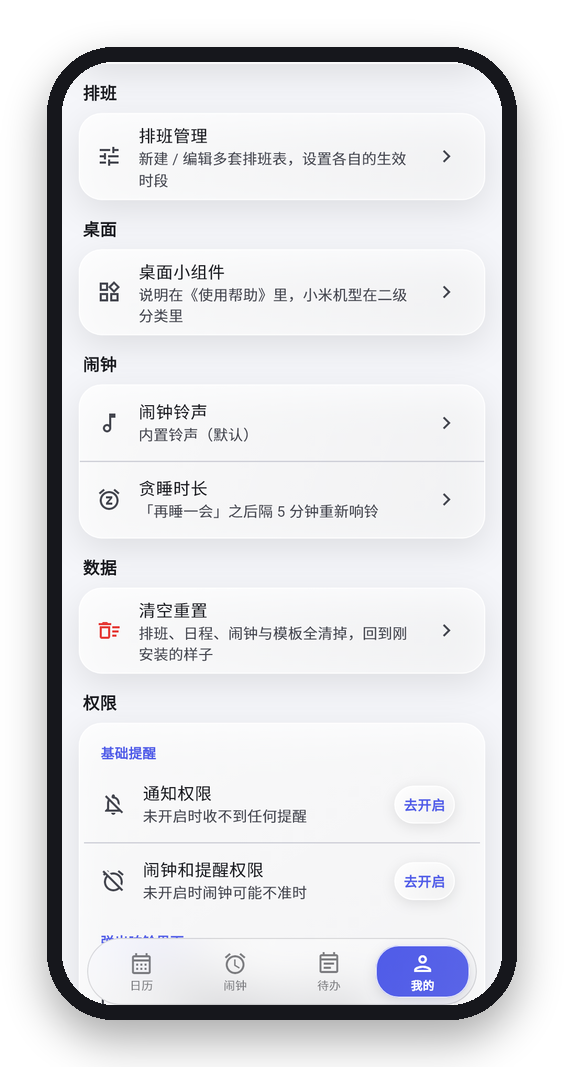
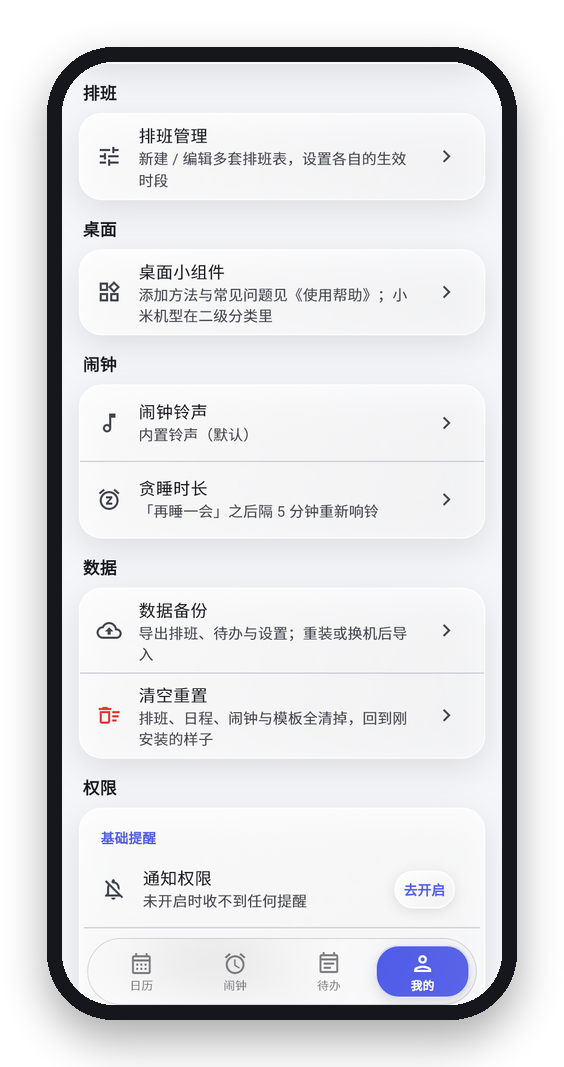
chore(release): 准备 v0.14.0 正式版（归纳更新日志 + 门面文案 + 配图）
- 版本 0.13.27+214 → 0.14.0+215（pubspec 与 app_info 双写）
- App 内更新日志 prepend v0.14.0 归纳版（9 条，守住折叠首屏的字形量），滚掉 0.13.18
- README / PRODUCT_SPEC / site / 帮助页对齐现状：schema 18、日志整页与诊断包、三星与一加 OPPO 权限入口、换手机可备份（旧说法已过时）、新增「导出出勤表」
- 酷安稿升 v0.14.0（新增统计 / 备份两节），新增 v0.14.0 更新短文
- promo 屏单新增「统计」，重出 hero 与 shot-*
- 单测 1429 全绿、analyze 0 issue、视觉工装 1623 条全绿

diff --git a/app/lib/features/profile/app_dialogs.dart b/app/lib/features/profile/app_dialogs.dart
@@ -49,6 +49,17 @@ void showAppInfoDialog(
 }
 
 const String _changelogZh =
+'v0.14.0\n'
+    '· 统计页（新）：月 / 年两种视图，实际在岗、正常工时、上班 / 休息天数、请假、加班、夜班、最长连班 / 连休都算好了；环形图、出勤构成条、月度工时柱；点年月标题直接跳\n'
+    '· 请假与加班：日历上任意一天记时长、类型（也能自己起名）和备注；整天请假会自动压掉那天的班次闹钟。出勤表可以导出 CSV，拿去算工资或交班\n'
+    '· 数据备份：「我的 → 数据备份」导出 .dshbackup（排班 + 待办 + 模板 + 闹钟 + 设置 + 自己的铃声），换机或重装后导入即恢复\n'
+    '· 闹钟这一轮的重点是「不丢」：重排改成先排后清，不再有几秒钟一条闹钟都没有；每 6 小时巡检一次，被系统清掉的自动补回；闹钟页顶部多一行「下一次响铃」\n'
+    '· 「查看日志」从弹窗改成整页：按天翻（保留 7 天）、能搜索、能一键导出诊断包\n'
+    '· 权限页按品牌给入口：三星「休眠应用」、一加 / OPPO「自启动」，直接跳到系统的设置页\n'
+    '· 顺带的一批：法定节假日自动更新；触觉走设备自己的预定义效果；选择器顶上都补了下拉短横，日期弹层点年月标题直接跳月，深色下箭头看得见了；深色下不再有黑压压的图标；底栏滑块跟手；「版本更新」先给最近三版\n'
+    '· 「我的」新增「关于」整页（版本 / 开源地址 / 隐私说明）与打赏入口，打赏后可解锁「支持者专属」里的一封信\n'
+    '· 修：HarmonyOS 3.0（荣耀 10、畅享 20 Pro 一类）一开就闪退；用系统文件管理器选铃声返回后没反应；重复待办改「从这天起」不生效；导入备份后点重启拉不起来\n'
+    '\n'
 'v0.13.27\n'
     '· 「版本更新」这个弹窗现在先给最近三版，更早的点下面的「展开更早的」再看 —— 十条长文一次画出来，对老机型是实打实的压力：有用户反复开关三四次之后，弹窗里的字碎成一片、接着整页上下翻转（重启就恢复）。收起来之后，这一屏也读得清爽些\n'
     '\n'
@@ -97,15 +108,19 @@ const String _changelogZh =
     '· 图表精修：环图加了底轨、圆头分段与真实缝隙（只有一天的小段也不会消失）；出勤构成条分段留缝；月度工时柱改成底轨 + 顶圆角渐变柱 + 均值虚线（只统计有工时的月份）+ 当月高亮，切年时从基线长出来\n'
     '· 请假构成每个类型多了一条占比细条；统计口径补了一条「月度均值线只统计工时 > 0 的月份」\n'
     '\n'
-'v0.13.18\n'
-    '· 修：个别机型（三星这类）偶尔有某一条班次闹钟不响。根因是重排闹钟时先清空系统里已排的那一批、再一条条排回来，中间有几秒一条闹钟都没有；而每次闹钟响都会拉起 App 重排一轮，这时 App 若被划掉或被系统清理，就停在「撤完了、还没排上」\n'
-    '· 现在顺序反过来了：先把新的一批排上、再撤多余的。重排过程中系统里始终有一批闹钟（升级后的首次清扫是唯一的一次例外）\n'
-    '· 新增闹钟巡检：每 6 小时照排班把系统里缺的补回来。厂商把 App 的闹钟整条取消时（三星「休眠应用」就是这样），靠它补回，不必等下次打开 App\n'
-    '· 日志现在能一眼定位：进程启动只写一次设备与权限，之后每条都短；每条「收到闹钟」后面跟一行「下一跳是几月几日几点、哪个 id」——报障时把日志复制过来，就能分清是系统没递过来、还是 App 根本没排它。铃声那一行也不再打出让人误解的「file://」\n'
-    '· 重排本身也快了：一次只走一次原生调用、只落一次盘（原来是每条闹钟各来一次），冷启动不再卡\n'
-    '\n'
     ;
 const String _changelogEn =
+'v0.14.0\n'
+    '· Statistics (new): monthly and yearly views for hours on duty, normal hours, work / rest days, leave, overtime, night shifts and the longest work / rest streak, with a donut, an attendance bar and monthly hour columns; tap the year-month title to jump\n'
+    '· Leave and overtime: record hours, a type (you can name your own) and a note on any calendar day; a full-day leave also cancels that day shift alarm. The attendance table exports to CSV for payroll or handover\n'
+    '· Backup: My > Backup exports a .dshbackup file (schedules + todos + templates + alarms + settings + your own ringtones); import it after a reinstall or on a new phone and everything is back\n'
+    '· Alarms this round are about not losing one: re-planning schedules the new batch before cancelling the old, a check-up every 6 hours restores whatever the system dropped, and the alarm page gains a next-alarm line\n'
+    '· View log is now a full page: per-day logs (7 days kept), search, and a one-tap diagnostics bundle\n'
+    '· Permissions gains brand entries: Samsung Sleeping apps, OnePlus / OPPO Auto-launch, each opening the right system screen\n'
+    '· Along the way: public holidays update themselves; haptics use the built-in predefined effects; every sheet has the drag handle, date sheets jump to a month from their title and their arrows are visible in dark mode; no more black icons in dark mode; the sliders track your finger; the update log opens with the latest three versions\n'
+    '· My gains a full About page (version / source / privacy) and a tip entry; tipping unlocks a letter under Supporter\n'
+    '· Fix: instant crash on HarmonyOS 3.0 (Honor 10, Enjoy 20 Pro and the like); picking a ringtone with the system file manager did nothing on return; changing a recurring to-do starting day had no effect; tapping restart after a backup import brought nothing back\n'
+    '\n'
 'v0.13.27\n'
     '· The update log now opens with the latest three versions; tap "Show earlier versions" underneath for the rest. Drawing ten long entries at once is real pressure on older phones - one user saw the text break into fragments and then the whole page flip, three or four opens in a row (a restart clears it). It also reads more clearly this way\n'
     '\n'
@@ -153,13 +168,6 @@ const String _changelogEn =
     '· Statistics now leads with icons: the month / year segment, the four metric tiles, every card header and the four highlight rows all carry a semantic-coloured icon\n'
     '· Charts refined: the donut gains a track, round segment caps and real gaps (a one-day segment no longer vanishes); the composition bar has gaps between segments; monthly hours become track + rounded gradient bars + a dashed average line (months with hours only) + current-month highlight, growing from the baseline when the year changes\n'
     '· Leave by type gains a share bar per row; "How it is calculated" explains that the monthly average line only counts months with hours > 0\n'
-    '\n'
-'v0.13.18\n'
-    '· Fix: on some devices (Samsung among them) an occasional shift alarm did not ring. Alarms were re-planned by clearing everything already scheduled and then adding them back one by one, leaving a few seconds with no alarm at all; and every alarm that rings brings the app up for a full re-plan, so if the app is swiped away or cleaned up meanwhile it stays at "cleared, not yet re-added"\n'
-    '· The order is reversed: the new batch is scheduled first, then the leftovers are cancelled. A full set of alarms stays scheduled throughout a re-plan (the one-time sweep after upgrading is the only exception)\n'
-    '· New alarm check-up every 6 hours re-adds whatever the system dropped. When an OEM cancels an app\'s alarms outright (Samsung\'s sleeping apps do), this brings them back without waiting for the next app launch\n'
-    '· The log now pinpoints the problem at a glance: device and permissions are written once per process and later lines are short; every "alarm received" line is followed by "next up: date, time, id" - paste the log and it is clear whether the system never delivered it or the app never scheduled it. The ringtone line no longer prints a misleading "file://"\n'
-    '· Re-planning is faster too: one native call and one disk write per batch instead of one per alarm, so cold starts no longer stall\n'
     '\n'
     ;
 String get appChangelog => L10n.isEn ? _changelogEn : _changelogZh;

diff --git a/site/index.html b/site/index.html
@@ -95,6 +95,29 @@
     </figure>
   </section>
 
+  <!-- ============ 统计 ============ -->
+  <section class="chapter chapter-quiet" id="stats">
+    <div class="split split-reverse">
+      <div class="split-copy reveal">
+        <p class="chapter-kicker">统计</p>
+        <h2 class="chapter-title">这个月，<br>到底上了多少小时。</h2>
+        <p class="chapter-lede">
+          月 / 年两种视图：实际在岗、正常工时、上班与休息天数、请假、加班、夜班、最长连班连休都算好了。请假和加班就在日历上记，整天请假会自动压掉那天的班次闹钟。
+        </p>
+        <p class="callout">
+          出勤表能导成 <strong>CSV</strong>，Excel 直接打开 —— 拿去算工资或交班。
+        </p>
+      </div>
+
+      <div class="split-media split-media-single reveal">
+        <figure>
+          <img src="./assets/shot-stats.png" alt="统计界面" width="564" height="1172" loading="lazy" decoding="async">
+          <figcaption>环形图、出勤构成条、月度工时柱，都是自己画的。</figcaption>
+        </figure>
+      </div>
+    </div>
+  </section>
+
   <!-- ============ 闹钟 ============ -->
   <section class="chapter" id="alarm">
     <div class="split">
@@ -174,6 +197,10 @@
 
     <ol class="log">
       <li class="reveal">
+        <h3>v0.14.0 <em>正式版</em></h3>
+        <p>这一版把 v0.13 的二十七个测试版收口。新东西三样：<b>统计页</b>（月 / 年两种视图，实际在岗、正常工时、上班休息天数、请假、加班、夜班、最长连班连休，配环形图、出勤构成条和月度工时柱，还能把出勤表导出成 CSV）；<b>请假与加班</b>（日历上任意一天记时长、类型和备注，整天请假会自动压掉那天的班次闹钟）；<b>数据备份</b>（导出成一个 .dshbackup，换机或重装后导入恢复）。闹钟这一轮的重点是「不丢」：重排改成先排后清、每 6 小时巡检兜底、闹钟页顶上一行「下一次响铃」、日志改成整页并能一键导诊断包；权限页按品牌给入口（三星「休眠应用」、一加 / OPPO「自启动」）。另外：法定节假日改为自动更新、触觉改走设备自己的预定义效果、选择器统一加了下拉短横、深色下不再有黑压黑的图标、底栏滑块跟手了。修掉的硬伤包括 HarmonyOS 3.0 一开就闪退、系统文件管理器选铃声返回无效、重复待办改起点不生效。</p>
+      </li>
+      <li class="reveal">
         <h3>v0.13.27 <em>测试版</em></h3>
         <p>「版本更新」这个弹窗现在先给最近三版，更早的点下面那颗「展开更早的」胶囊再看。十条长文一次画出来，对老机型是实打实的压力 —— 有用户反复开关三四次之后，弹窗里的字碎成一片、接着整页还上下翻转（重启就恢复）；收起来之后，这一屏也读得清爽些。</p>
       </li>
@@ -200,10 +227,6 @@
       <li class="reveal">
         <h3>v0.13.21 <em>测试版</em></h3>
         <p>修三处：「下一次响铃」在关掉某一天的闹钟后不跟着跳（它没看按天开关），现在关了哪条就跳到下一条；没有自定义闹钟时那一块终于真的贴到底部，不再和班次列表平分；编辑排班里的「夜班」开关下面加了一行说明 —— 它只算进统计页的「夜班天数」，不影响轮转和闹钟，跟「联动闹钟」也拉开了距离。</p>
-      </li>
-      <li class="reveal">
-        <h3>v0.13.20 <em>测试版</em></h3>
-        <p>闹钟页顶部多了一行「下一次响铃」：几月几日几点、哪条班次闹钟、还有几小时几分。没有自定义闹钟时那一块不再占半个屏幕，未来 30 天的班次闹钟拿回整块空间。「调整班次」现在能写备注 —— 跟同事换班、临时调休，写一句就记在日历上。「查看日志」从弹窗换成整页：日志按天归档保留 7 天、能搜索，还能一键导出诊断包（日志 + 设备权限 + 已排闹钟清单 + 未来 7 天计划），报「偶尔没响」时发这个包就能定位。</p>
       </li>
     </ol>
 

diff --git a/app/lib/features/profile/help_content.dart b/app/lib/features/profile/help_content.dart
@@ -135,6 +135,14 @@ const List<HelpFaqGroup> helpFaqGroups = [
               'Night shift is a marker on the shift rather than something guessed from its name. Open the schedule under Me → Schedule management and turn on the "Night shift" switch on that shift card; the statistics will follow.',
             ),
           ),
+          (
+            question: L10nText('想把出勤表拿去算工资',
+                'I want to take the attendance table to payroll'),
+            answer: L10nText(
+              '统计页右上角「导出」：选起止日期，勾上要的字段（日期、班次、工时、请假类型、请假时长、加班、备注等），生成一份 CSV，Excel 直接打开。跨午夜的班次会标「次日」。',
+              'Tap Export at the top right of Statistics: pick the date range, tick the columns you want (date, shift, hours, leave type, leave hours, overtime, note and more) and it writes a CSV that Excel opens directly. Shifts that cross midnight are marked "next day".',
+            ),
+          ),
         ],
       ),
       (
@@ -273,8 +281,8 @@ const List<HelpFaqGroup> helpFaqGroups = [
             question: L10nText('换了手机，怎么把排班搬过去',
                 'I got a new phone — how do I move my schedule over'),
             answer: L10nText(
-              '目前不支持。数据只存在这台手机上，没有云同步也没有导出，换手机要重新排一遍。',
-              'Not supported yet. Everything lives on this phone only — there is no cloud sync and no export — so a new phone means setting it up again.',
+              '「我的 → 数据备份 → 导出」，存成一个 .dshbackup 文件（可以放到网盘或电脑）。在新手机上装好 App，同一条路径选「导入」，选那个文件、确认覆盖，App 会自己重启一次，排班、待办、模板、闹钟、外观设置和你保存的铃声都回来了。',
+              'Open Me → Backup → Export and save the .dshbackup file somewhere (a cloud drive or your computer). Install the app on the new phone, pick Import on the same screen, choose that file and confirm; the app restarts itself and your schedules, todos, templates, alarms, appearance settings and saved ringtones are all back.',
             ),
           ),
         ],

diff --git a/app/test/changelog_dialog_test.dart b/app/test/changelog_dialog_test.dart
@@ -22,7 +22,7 @@ String _visibleLog(WidgetTester tester) {
   final parts = tester
       .widgetList<Text>(find.byType(Text))
       .map((t) => t.data ?? '')
-      .where((s) => s.contains('v0.13.'));
+      .where((s) => s.contains('v0.1'));
   return parts.join('\n');
 }
 
@@ -46,7 +46,7 @@ void main() {
   test('切分：条数等于窗口条数，首条是当前版本', () {
     final versions = splitChangelogVersions(appChangelog);
     expect(versions.length, 10, reason: '更新日志窗口固定十条，切分不能多也不能少');
-    expect(versions.first.startsWith('v0.13.27'), isTrue);
+    expect(versions.first.startsWith('v0.14.0'), isTrue);
     // 每一条都必须正好以一条版本头开头，且不含下一条的头。
     for (final block in versions) {
       expect(RegExp(r'^v\d+\.\d+\.\d+\n').hasMatch(block), isTrue,
@@ -62,10 +62,10 @@ void main() {
     await tester.pumpAndSettle();
 
     final collapsed = _visibleLog(tester);
+    expect(collapsed, contains('v0.14.0'));
     expect(collapsed, contains('v0.13.27'));
     expect(collapsed, contains('v0.13.26'));
-    expect(collapsed, contains('v0.13.25'));
-    expect(collapsed, isNot(contains('v0.13.24')),
+    expect(collapsed, isNot(contains('v0.13.25')),
         reason: '折叠态下第四版就不该画出来 —— 画了等于没折叠');
 
     final more = find.text('展开更早的 7 版');
@@ -77,7 +77,7 @@ void main() {
     await tester.pumpAndSettle();
 
     final expanded = _visibleLog(tester);
-    for (final v in ['v0.13.27', 'v0.13.20', 'v0.13.18']) {
+    for (final v in ['v0.14.0', 'v0.13.22', 'v0.13.19']) {
       expect(expanded, contains(v), reason: '展开后 $v 应当出现');
     }
     expect(find.text('收起'), findsOneWidget);

diff --git a/app/tool/promo/render_promo_test.dart b/app/tool/promo/render_promo_test.dart
@@ -23,6 +23,7 @@ import 'package:shiftassistantpro/features/alarm/alarm_ringing_screen.dart';
 import 'package:shiftassistantpro/features/calendar/schedule_editor_screen.dart';
 import 'package:shiftassistantpro/features/calendar/shift_template_picker_screen.dart';
 import 'package:shiftassistantpro/features/home/home_shell.dart';
+import 'package:shiftassistantpro/features/stats/stats_screen.dart';
 
 import '../visual/visual_harness.dart';
 
@@ -229,6 +230,16 @@ final List<_Shot> _shots = [
       await settleVisual(t);
       await _scrollDown(t, 640);
     },
+  ),
+  (
+    // v0.14.0 的门面：统计页。它是这轮最大的新功能，宣传图里不能没有。
+    // 画布比别的屏高一档（1000）：默认 900 会把环图下面的图例切掉半行。
+    slug: '11_stats',
+    title: '统计',
+    build: (db) async => const StatsScreen(),
+    brightness: Brightness.light,
+    size: const Size(420, 1000),
+    beforeCapture: null,
   ),
 ];
 

diff --git a/app/lib/core/app_info.dart b/app/lib/core/app_info.dart
@@ -7,4 +7,4 @@
 /// 错的，会给已经装上的版本再挂一个「下载」按钮。
 ///
 /// 现在由 `test/app_info_test.dart` 盯着两处一致，改漏了会直接把测试打红。
-const String appVersion = '0.13.27';
+const String appVersion = '0.14.0';

diff --git a/scripts/make_promo_images.py b/scripts/make_promo_images.py
@@ -33,6 +33,7 @@ SHOTS = [
     ('02_alarm', 'shot-alarm.png', '班次闹钟'),
     ('03_editor', 'shot-editor.png', '排班编辑器'),
     ('04_todos', 'shot-todos.png', '待办'),
+    ('11_stats', 'shot-stats.png', '统计'),
     ('06_templates', 'shot-templates.png', '倒班方式'),
     ('10_profile_permissions', 'shot-permissions.png', '权限自检'),
     ('05_ringing', 'shot-ringing.png', '响铃界面'),

diff --git a/scripts/build_site.py b/scripts/build_site.py
@@ -41,6 +41,7 @@ IMAGES = ROOT / "docs" / "images"
 PNGS = ["hero.png"]          # 只给 og:image，不渲染在页面上
 SHOTS = [                     # 首屏三台 + 各章各一张
     "shot-calendar.png",
+    "shot-stats.png",
     "shot-alarm.png",
     "shot-ringing.png",
     "shot-todos.png",

diff --git a/docs/changelog/version-history.md b/docs/changelog/version-history.md
@@ -43,4 +43,4 @@
 → 0.11.21(+168) 测试版（**实心主色面换成深一档的主色**。用户 2026-10-15 从三张对照图里挑了「实色压深一档 + 白字」：新增 `AppTokens.solidAccent()`（主色明度 × 0.62、色相不动），`accentGradient` 从「原主色 0.85 → 0.50 的半透明渐变」换成「深一档的 1.0 → 0.92」—— 主按钮 / 弹窗动作钮 / 导航选中 / 分段器滑块 / 待办悬浮按钮 / 开关 / 勾选块 / 胶囊入口 / 液态档玻璃滴一处收口。白字在原主色上 teal 2.63、orange 2.55、rose 4.09 全不到 AA，现在五种主色在两档底色、两端都 ≥ 5.0。**顺带量出并修掉一件更早的事：旧填充是半透明的，压在白卡上连 primary 的尽头都只有 2.1:1。** 护栏 `design_tokens_test.dart` 换成「白字在渐变两端 × 两档底色都过 AA + 色相不变、明度更小」，反向验证过。⚠ **这一版漏了两处、且护栏是假的绿** —— 见上面 0.11.22）
 → 0.12.9(+184) 测试版（**彩边与折射同时画 + 桌面小组件白块自愈 + 极端字号格高 + 待办铅笔去掉**。用户 2026-11-05 一次提了四条：v0.12.8 为了让只在 Impeller 上跑得动的折射看得见，把彩边做成了它的替身 —— 结果 Impeller 回落到 Skia 的机器上两样都没有，改成 `spectral: spectral` 恒开、两样同时画；MIUI13 / Android 12 用户报的「白卡 + 中间一个应用图标」只来自 `WidgetRenderer.kt:438-446` 的 `snap == null` / `todayIndex < 0`，病灶是「快照没推上去」整条静默（`buildWidgetSnapshot` 在 `try` 之外、`MainActivity.kt:652` 无条件 `success(true)`），修成 `push` → `Future<bool>` + 首发 2 次重试 + 原生 `commit()` 返回值 + 占位卡写「打开 App 同步排班」；Noto 行盒比等线高 2dp，网格可用高度 316→314、`maxScrollExtent` 量到 2.0，改成每行差额 ≤1dp 由格子吃掉（`_cellFitTolerance`）而不是放宽断言；待办行铅笔去掉。**同轮把测试字体钉进仓库** `app/test/fonts/`（Noto SC 子集 + Roboto + Material Icons，合计 4,675,376 B + OFL/Apache 全文）—— CI 首轮 `+1210 -8` 全是「量方块」，根因是 CJK 候选全是系统路径。单测 1217 → 1218 → **1220**。）
 → 0.12.10(+185) 测试版（**底栏边光重配亮度 + 滑块/药丸两端真圆**。用户 v0.12.9 真机反馈两条：深色档边光 202 → **122** 级、浅色档补一条 **85** 级暗线；满升程时两端曲率算错被拉成椭圆，改成真圆。开关高度按用户拍板**保持 42**（每侧越过 6dp，底栏 4dp —— 小控件要让提起读得出来），新护栏 `liquid_lift_clearance_test.dart` 钉「每侧至少越过 4dp」这条下限而不是恰好 4。顺带收掉 `alarm_screen_test.dart:178` 的午夜老炸弹（每天 23:55–23:59 约 0.35% 必红），并把发版脚本的签名校验升级成**默认拦**（新开关 `-SkipSignCheck`；摘要不一致不给口子；这一节搬出 `-SkipVerify` 的包裹，否则紧急补发时校验会静默消失）。单测 1235 → **1236**。）
-→ **0.13.0(+187) 正式稳定版**（归纳 0.12.1~0.13.0：小组件跟随系统深浅色 / 重复待办收口 / 排班编辑器箭头去掉；详见 `docs/changelog/v0.13.md`）→ 0.13.1(+188) 测试版（官网 + 国内下载镜像；检查更新先读官网清单）→ 0.13.2(+189) 测试版（关于页 / 打赏入口 / 文案审校）→ 0.13.3(+190) 测试版（打赏解锁「支持者专属」，自报式）→ 0.13.4(+191) 测试版（数据备份导出 / 导入，导入后重启）→ 0.13.5(+192) 测试版（「立即重启」真的重开；导入不弹版本更新）→ 0.13.6(+193) 测试版（文案校对：官网更新日志 / 帮助 / README / 规格）→ 0.13.7(+194) 测试版（触觉改走原生预定义效果，替掉 70ms TICK）→ 0.13.8(+195) 测试版（选择器滚轮换格震一记）→ 0.13.9(+196) 测试版（翻月 / 响铃 / 备份补触觉）→ 0.13.10(+197) 测试版（触觉三档能力阶梯 + 启动期能力自查）→ 0.13.11(+198) 测试版（修 HarmonyOS 3.0 / API 29 冷启动闪退：API 门槛按 api-versions.xml 逐条设，catch 改抓 Throwable）→ 0.13.12(+199) 测试版（法定节假日数据自动更新：`holidays.json` 双通道 + 本地缓存 + 整份校验，按年整年替换；「关于」页加手动刷新行；自定义闹钟行去掉编辑笔；修「从文件中选择铃声」在某些文件管理器下点了没反应：改 `ACTION_GET_CONTENT`、认 data/clipData/EXTRA_STREAM 三种回传、`PICK_NO_URI` 独立错误码 + 全程日志）→ 0.13.13(+200) 测试版（修「系统铃声选了不生效」：系统铃声也复制进私有目录（`importRingtone`），启动迁移旧的 `content://` 值，`ringtone pick:` 改 `diagnostic` 落盘，`AlarmSound` 打不开音源时记录异常类型）→ 0.13.14(+201) 测试版（**统计页 + 请假 / 加班**：日历顶栏那颗按钮换成统计入口，`domain/shift_stats.dart` 纯函数按月 / 年现算实际在岗、正常工时、平均每班、上班 / 休息天数，另有请假、加班、法定节假日上班、夜班、最长连班 / 连休；新增全局日级表 `shift_day_extras`（schema v16，主键 `{day, kind}`）与 `ShiftClass.isNight`，整天请假由 `planShiftAlarms` 统一抑制班次闹钟；「调整班次」弹层加请假 / 加班时长选择层，日历格子与信息卡标「假 / 加」；新增屏单 74~77。单测 1318 → **1353**）→ 0.13.15(+202) 测试版（修重复待办「改从这天起不生效」：编辑时只挪了当前那一条、系列 `start_date` 没跟着走，提醒仍按旧起点排；闹钟链路关键步骤改 `diagnostic` 落盘 + `deviceState` 补机型与电池优化状态；「我的 → 权限」按机型追加「休眠应用（三星）」；日志瘦身（振动能力探针不再落盘）。单测 1353 → **1356**）→ 0.13.16(+203) 测试版（修重复待办「起点之前就出现在列表里」：未完成的行只允许是「不晚于今天的最近一次发生日」，起点在未来时一条都不建，旧版本留下的由生成器清掉；打赏收款码换经营码）。单测 1356 → **1357**）→ 0.13.17(+204) 测试版（统计图表化：班次分布环形图 / 出勤构成分段条 / 年视图月度工时柱 / 「统计口径」卡；请假类型（内置 5 类 + 自定义）与备注；CSV 自定义导出；去掉统计页的「排班时段」入口；schema v17）。单测 1358 → **1375**） → 0.13.18(+205) 测试版（修「某条班次闹钟没响」：重排改**先排后清**——整批 `reconcileNativeAlarms`，差集 `staleNativeIds` 按号段隔离，一次跨端一次落盘；新增 6 小时巡检 `AlarmWatchdog`（与 `BootReceiver` 共用 `AlarmRestorer`）；日志改「每进程一次设备信息 + 每条跟着下一跳」，`AlarmSound` 不再打 `file://`。单测 1375 → **1390**） → 0.13.19(+206) 测试版（统计页：年份点开即弹选择器；翻月 / 翻年 / 今天 / 下钻一记 select；期间条提亮与图标色根因修复；图标一律前置；环图底轨 + 圆头分段 + 像素折角缝隙、构成条留缝、月度工时柱底轨 / 渐变 / 均值虚线 / 当月高亮 / 切年生长。单测 1390 → **1394**） → 0.13.20(+207) 测试版（闹钟页「下一次响铃」摘要；自定义闹钟空态贴底；调班备注（schema v18）；日志整页 + 诊断包。单测 1390 → **1394**） → 0.13.21(+208) 测试版（三处真机反馈：摘要补 `overrides`、空态改非 flex 贴底、夜班开关说明。单测 1394 → **1408**） → 0.13.22(+209) 测试版（闹钟取证与自愈：启动快照 / 退出原因 / 巡检不推后 / ColorOS 入口。单测 1408 → **1414**） → **0.13.23(+210) 测试版**（日期选择弹层三条：标题跳月 / 箭头取色抽件 / 固定 6 行高；< 240dp 顶栏两排。单测 1414 → **1419**） → **0.13.24(+211) 测试版**（弹层把手统一进 `GlassSheetPanel`；图标兜底色收到主题 `onSurface`；滚轮高度改自适应。单测 1419 → **1426**） → **0.13.25(+212) 测试版**（滑块提起只属于按住：`_dragging` 移出升程目标，长按后再拖用 `_heldAcrossCancel` 交接。单测 1426 → **1428**） → **0.13.26(+213) 测试版**（修滑块跟手：抓取偏移改按按下点算，快速滑动不再落后手指；恢复上一版误改的提起行为。单测 1428 → **1427**） → **0.13.27(+214) 测试版**（「版本更新」弹窗首屏只画三版 + 「展开更早的」胶囊：老机型上反复开关会把字形图集压坏，单次字形量压掉约七成。单测 1427 → **1429**）
+→ **0.13.0(+187) 正式稳定版**（归纳 0.12.1~0.13.0：小组件跟随系统深浅色 / 重复待办收口 / 排班编辑器箭头去掉；详见 `docs/changelog/v0.13.md`）→ 0.13.1(+188) 测试版（官网 + 国内下载镜像；检查更新先读官网清单）→ 0.13.2(+189) 测试版（关于页 / 打赏入口 / 文案审校）→ 0.13.3(+190) 测试版（打赏解锁「支持者专属」，自报式）→ 0.13.4(+191) 测试版（数据备份导出 / 导入，导入后重启）→ 0.13.5(+192) 测试版（「立即重启」真的重开；导入不弹版本更新）→ 0.13.6(+193) 测试版（文案校对：官网更新日志 / 帮助 / README / 规格）→ 0.13.7(+194) 测试版（触觉改走原生预定义效果，替掉 70ms TICK）→ 0.13.8(+195) 测试版（选择器滚轮换格震一记）→ 0.13.9(+196) 测试版（翻月 / 响铃 / 备份补触觉）→ 0.13.10(+197) 测试版（触觉三档能力阶梯 + 启动期能力自查）→ 0.13.11(+198) 测试版（修 HarmonyOS 3.0 / API 29 冷启动闪退：API 门槛按 api-versions.xml 逐条设，catch 改抓 Throwable）→ 0.13.12(+199) 测试版（法定节假日数据自动更新：`holidays.json` 双通道 + 本地缓存 + 整份校验，按年整年替换；「关于」页加手动刷新行；自定义闹钟行去掉编辑笔；修「从文件中选择铃声」在某些文件管理器下点了没反应：改 `ACTION_GET_CONTENT`、认 data/clipData/EXTRA_STREAM 三种回传、`PICK_NO_URI` 独立错误码 + 全程日志）→ 0.13.13(+200) 测试版（修「系统铃声选了不生效」：系统铃声也复制进私有目录（`importRingtone`），启动迁移旧的 `content://` 值，`ringtone pick:` 改 `diagnostic` 落盘，`AlarmSound` 打不开音源时记录异常类型）→ 0.13.14(+201) 测试版（**统计页 + 请假 / 加班**：日历顶栏那颗按钮换成统计入口，`domain/shift_stats.dart` 纯函数按月 / 年现算实际在岗、正常工时、平均每班、上班 / 休息天数，另有请假、加班、法定节假日上班、夜班、最长连班 / 连休；新增全局日级表 `shift_day_extras`（schema v16，主键 `{day, kind}`）与 `ShiftClass.isNight`，整天请假由 `planShiftAlarms` 统一抑制班次闹钟；「调整班次」弹层加请假 / 加班时长选择层，日历格子与信息卡标「假 / 加」；新增屏单 74~77。单测 1318 → **1353**）→ 0.13.15(+202) 测试版（修重复待办「改从这天起不生效」：编辑时只挪了当前那一条、系列 `start_date` 没跟着走，提醒仍按旧起点排；闹钟链路关键步骤改 `diagnostic` 落盘 + `deviceState` 补机型与电池优化状态；「我的 → 权限」按机型追加「休眠应用（三星）」；日志瘦身（振动能力探针不再落盘）。单测 1353 → **1356**）→ 0.13.16(+203) 测试版（修重复待办「起点之前就出现在列表里」：未完成的行只允许是「不晚于今天的最近一次发生日」，起点在未来时一条都不建，旧版本留下的由生成器清掉；打赏收款码换经营码）。单测 1356 → **1357**）→ 0.13.17(+204) 测试版（统计图表化：班次分布环形图 / 出勤构成分段条 / 年视图月度工时柱 / 「统计口径」卡；请假类型（内置 5 类 + 自定义）与备注；CSV 自定义导出；去掉统计页的「排班时段」入口；schema v17）。单测 1358 → **1375**） → 0.13.18(+205) 测试版（修「某条班次闹钟没响」：重排改**先排后清**——整批 `reconcileNativeAlarms`，差集 `staleNativeIds` 按号段隔离，一次跨端一次落盘；新增 6 小时巡检 `AlarmWatchdog`（与 `BootReceiver` 共用 `AlarmRestorer`）；日志改「每进程一次设备信息 + 每条跟着下一跳」，`AlarmSound` 不再打 `file://`。单测 1375 → **1390**） → 0.13.19(+206) 测试版（统计页：年份点开即弹选择器；翻月 / 翻年 / 今天 / 下钻一记 select；期间条提亮与图标色根因修复；图标一律前置；环图底轨 + 圆头分段 + 像素折角缝隙、构成条留缝、月度工时柱底轨 / 渐变 / 均值虚线 / 当月高亮 / 切年生长。单测 1390 → **1394**） → 0.13.20(+207) 测试版（闹钟页「下一次响铃」摘要；自定义闹钟空态贴底；调班备注（schema v18）；日志整页 + 诊断包。单测 1390 → **1394**） → 0.13.21(+208) 测试版（三处真机反馈：摘要补 `overrides`、空态改非 flex 贴底、夜班开关说明。单测 1394 → **1408**） → 0.13.22(+209) 测试版（闹钟取证与自愈：启动快照 / 退出原因 / 巡检不推后 / ColorOS 入口。单测 1408 → **1414**） → **0.13.23(+210) 测试版**（日期选择弹层三条：标题跳月 / 箭头取色抽件 / 固定 6 行高；< 240dp 顶栏两排。单测 1414 → **1419**） → **0.13.24(+211) 测试版**（弹层把手统一进 `GlassSheetPanel`；图标兜底色收到主题 `onSurface`；滚轮高度改自适应。单测 1419 → **1426**） → **0.13.25(+212) 测试版**（滑块提起只属于按住：`_dragging` 移出升程目标，长按后再拖用 `_heldAcrossCancel` 交接。单测 1426 → **1428**） → **0.13.26(+213) 测试版**（修滑块跟手：抓取偏移改按按下点算，快速滑动不再落后手指；恢复上一版误改的提起行为。单测 1428 → **1427**） → **0.13.27(+214) 测试版**（「版本更新」弹窗首屏只画三版 + 「展开更早的」胶囊：老机型上反复开关会把字形图集压坏，单次字形量压掉约七成。单测 1427 → **1429**） → **0.14.0(+215) 正式稳定版**（归纳 0.13.1~0.13.27 二十七个测试版：统计页 / 请假加班 / 数据备份 / 闹钟不再丢；详见 `docs/changelog/v0.14.md`）

diff --git a/README.md b/README.md
@@ -49,6 +49,8 @@
 - **年视图**：全年合计 + 12 个月逐月列出，点一行就跳到那个月；**点顶上的年份直接弹年份滚轮**，跨十年不用一路点箭头
 - **口径**：跨月夜班归上班开始那天；班次没设时间会提示「N 天未计入工时」；跟随法定节假日的空白表不合成上班 / 休息，如实写「无班次」。统计页底部还有一张「统计口径」卡，点开就是这几条
 
+![统计](docs/images/shot-stats.png)
+
 ### ⏰ 联动班次闹钟
 - **按班次自动响铃**：每个班次可独立设置响铃时间与开关，跟随排班自动排定未来 60 天、自动续排不过期；**零点班（00:00 上班）的响铃排在上班前 1 小时、也就是前一天晚上**，闹钟列表与日历信息卡上会写明「前一天」
 - **一个班次可以挂多条闹钟（最多 10 条）**：每条能起名字 —— 「起床」和「午休」分开响。**落在哪一天是算出来的，一共三档**：钟点落在值班窗口内 → **当天**（窗口跨过午夜时就是**次日**，零点班的班中、中班的次日 00:15 都是这一档）；钟点晚于上班钟点 → **前一天**（00:00 上班配 23:00，那个班已经结束 15 小时）；其余 → **当天与次日里离窗口更近的那一个**（「下班之后那一刻」）。闹钟列表与日历信息卡上会逐条写明「前一天」或「次日」，不用自己算
@@ -87,7 +89,7 @@
 ### 🎨 外观与体验
 - **液态玻璃设计系统**：磨砂面板、玻璃胶囊导航、实时模糊与高光描边，提示条等轻组件也已玻璃化；**「我的 → 外观 → 液态玻璃」这一档再往上加一层**：底栏那枚滑块按住会吸附到手指上、放大并凸出胶囊，拖动时沿运动方向拉伸、松手带过冲地落回，边缘一圈彩色折射光；分段器、开关、日历上那枚选中的块也都是同一套玻璃 —— 按住四面鼓出来、底下浮起一层影子，边上那圈彩光一动就亮、停下就没了。**关掉这一档就是原来的磨砂玻璃**（与从前逐像素一致），低端机自动只用磨砂档
 - **日历页与响铃界面底下铺着一层极慢的流光**（26 秒一轮，浅色下很轻、深色下明显），玻璃因此有东西可透 —— 它按低频推进而不是逐帧重画，整页不会一直忙；你按住拖动、换月的时候它会先停一下，松手接着走（观感上几乎看不出来）
-- **触觉反馈**：切换开关、选中、删除确认、应用改班 / 恢复轮转、切换排班时轻轻震一下；日历上**长按拖选**日子时，进入多选态震一次、之后每划过一格再轻震一下。**普通点击一律不震**，震动只在「状态真的变了」或「这一步不可逆」时出现；可在「我的 → 外观」一键关掉（默认开）
+- **触觉反馈**：切换开关、选中、删除确认、应用改班 / 恢复轮转、切换排班时轻轻震一下；日历上**长按拖选**日子时，进入多选态震一次、之后每划过一格再轻震一下；翻月、滚轮每拨一格、响铃与备份各有各的手感。三档语义走**设备自己的预定义效果**（不是通用振动），系统关掉「触摸时振动」时一声不发。**普通点击一律不震**，震动只在「状态真的变了」或「这一步不可逆」时出现；可在「我的 → 外观」一键关掉（默认开）
 - **深空蓝紫渐变**主题，跟随系统 / 浅色 / 深色三档切换；**5 种主色调**可选，深浅色各自适配
 - **字号四档**：「我的 → 外观 → 字体大小」，小 / 标准 / 大 / 特大，**App 自己管、不跟系统字号走**。字号变大时日历顶栏年月会折行、底栏信息卡跟着长高，格子里的字始终归一到格子里，**绝不省略**
 - **中 / English 双语**，随时切换
@@ -105,7 +107,8 @@
 ### 🛡 权限与隐私
 - 「我的」页内置**权限检测卡**：按「基础提醒 / 弹出响铃界面 / 后台与开机」三组列出通知、闹钟和提醒、显示悬浮窗、全屏通知、自启动、电池优化，**每行直接写清「不开会怎样」**，未开启的一键跳转系统设置
 - **小米机型多两项引导**：「后台弹出界面」（不开则退到后台后闹钟只响、不弹界面）与「锁屏显示」（不开则锁屏时只响、不弹界面）。这两项是 MIUI 私有的权限，系统不提供状态查询，所以只做跳转引导 —— 不假装能检测
-- 内置**日志查看**：只记录闹钟链路与错误/崩溃日志，可查看 / 复制 / 清空，排错不再靠猜
+- **按品牌给入口**：三星机型多一行「休眠应用」（进了「睡眠应用 / 深度休眠应用」的 App 会被系统连闹钟一起取消，是「几天偶尔漏一次」的典型成因）；一加 / OPPO 机型多一行「自启动 / 后台运行」，直接跳到系统的自启动管理页
+- 内置**日志查看**：只记录闹钟链路与错误/崩溃日志，按天归档、保留 7 天，可翻页、搜索、一键导出**诊断包**（日志 + 设备权限 + 已排闹钟清单 + 未来 7 天计划），排错不再靠猜；闹钟页顶部还有一行「下一次响铃」，几月几日几点、哪条班次闹钟、还有多久，一眼看到
 - 首次使用有引导说明，每次更新有更新说明
 - **数据 100% 留在本地**：无账号体系、无数据上传、无广告 SDK；需要搬家时可在「我的 → 数据备份」导出成文件带走。「我的 → 清空重置」一键回到刚安装的样子（排班、日程、自定义闹钟、我的模板、你保存的铃声与外观设置一起清掉）
 
@@ -119,8 +122,8 @@
 |---|---|
 | 框架 | Flutter（stable 通道；`app/pubspec.lock` 锁定下限 Flutter ≥ 3.44 / Dart ≥ 3.12；minSdk 26 = Android 8.0+） |
 | 状态管理 | Riverpod |
-| 本地数据库 | Drift（类型安全 SQLite，响应式查询；schemaVersion 15） |
-| 闹钟调度 | 原生 Kotlin（`setAlarmClock` / `AlarmReceiver` / 前台服务 / `AlarmStore`+`BootReceiver` 开机重排）+ flutter_local_notifications |
+| 本地数据库 | Drift（类型安全 SQLite，响应式查询；schemaVersion 18） |
+| 闹钟调度 | 原生 Kotlin（`setAlarmClock` / `AlarmReceiver` / 前台服务 / `AlarmStore` 落盘 + `BootReceiver` 开机重排 + 6 小时巡检兜底）+ flutter_local_notifications |
 | 农历 | lunar_plus（农历 / 节气 / 干支 / 生肖 / 法定节假日） |
 | 设计 | 自研液态玻璃设计系统，跟随系统深浅双主题 |
 
@@ -164,6 +167,6 @@ flutter build apk --release
 
 ## 📦 下载
 
-最新 **正式版 v0.13.0**、**测试版 v0.13.27**，都见 [GitHub Releases](https://github.com/Alec-WangLi/DaoBanAssistantPro/releases)。
+最新 **正式版 v0.14.0**、**测试版 v0.14.0**，都见 [GitHub Releases](https://github.com/Alec-WangLi/DaoBanAssistantPro/releases)。
 
 > 首次安装后请先到「我的 → 权限」开启通知、闹钟和提醒、显示悬浮窗、全屏通知、自启动、电池优化；**小米机型还要在系统的「应用 → 权限 → 其他权限」里额外开「后台弹出界面」和「锁屏显示」**（这两项不开，闹钟到点只会响、不会弹出响铃界面；「自启动」不开，重启手机后闹钟要等下次打开 App 才恢复）；再到「我的 → 排班管理 → 新增排班」选一个最接近你的倒班方式模板，按需微调班次时间、周期表与你的班组周期起始日，闹钟即自动跟随排班生效；调好之后点编辑器右上角的「存为模板」，以后新建排班就能直接从「我的模板」里选它。之后有新版本时，可在「我的 → 检查更新」里直接下载并安装。桌面小组件怎么加、装完新版为什么要先打开一次 App，见「我的 → 桌面 → 桌面小组件」。

diff --git a/docs/changelog/v0.14.md b/docs/changelog/v0.14.md
@@ -1,0 +1,20 @@
+# 版本流水 · v0.14（正式稳定版：统计 / 请假加班 / 数据备份 / 闹钟不丢）
+
+> 从 `AGENTS.md` 的「最近改动」拆出（2026-11-25），条目 **新→旧**。
+> v0.13.x 测试版的逐条细节仍在 `docs/changelog/v0.13.md`；这里只记 v0.14.0 的归纳与交付物。
+> 完整版本号链见 `version-history.md`；正式版归纳索引见 `releases.md`。
+
+- **v0.14.0（正式稳定版 · 归纳 0.13.1~0.13.27 二十七个测试版）**
+  这一版是三件事的收口：**统计页**、**请假 / 加班**、**数据备份**；另有一条贯穿始终的线 —— **闹钟不再丢**。七个测试版的细节读 `v0.13.md`，这里只记门面与交付物。
+
+  **① 统计页（v0.13.14 起，v0.13.17 / 0.13.19 精修）**：日历顶栏的统计入口打开 `StatsScreen`（月 / 年）。算法是 `domain/shift_stats.dart` 的纯函数 `shiftStatsFor` —— 正常工时扣当天请假、`endMinute` 的累计 / 回绕 / 1440 三种形态都认、跨月夜班整段归上班开始那天；「未排班」「空白表」「休息」三件事分开数。图表全部是 `CustomPainter`，不引第三方库：环形图（底轨 + 圆头分段 + 按像素折角的真实缝隙）、出勤构成条、年视图 12 根月度工时柱（顶圆角渐变 + 均值虚线 + 当月高亮）。年视图点年份弹 `showGlassYearPicker`，期间切换汇到 `_setPeriod`，一次操作恰好一记 `select()`。
+  **② 请假 / 加班（v0.13.14 / 0.13.17）**：新表 `shift_day_extras`（schema v16，主键 `{day, kind}`，全局按天不挂方案），v0.13.17 加 `leave_kind` / `note` 两列（v17）。类型存**键**（内置五类 + `custom:<名字>`，删类型不动历史）；整天请假由 `planShiftAlarms` 统一抑制那天的班次闹钟。备注是真 `TextField`，按 `viewInsets.bottom` 顶整块面板。**CSV 导出**：任选起止日期与 12 个字段，`domain/stats_export.dart` 生成带 BOM 的逐日 CSV，走系统文档选择器保存。
+  **③ 数据备份（v0.13.4，v0.13.5 修重启）**：`.dshbackup` = zip（`VACUUM INTO` 快照 + `prefs.json` + 自选铃声 + manifest）。导入先校验，暂存 `pending_restore/`，由 `main()` 在**任何数据库打开之前**原子替换，再用 `NEW_TASK | CLEAR_TASK` 起新任务（不杀进程 —— Android 14+ 会把「进程已死 + 拉起 Activity」判成后台启动并拦掉）。
+  **④ 闹钟不丢（v0.13.15 / 0.13.18 / 0.13.20 / 0.13.21 / 0.13.22）**：重排改「先排后清」（`reconcileNativeAlarms`，差集 `staleNativeIds` 按号段隔离），排盘改一批一次落盘；`AlarmWatchdog` 每 6 小时巡检，且**只往前挪不往后推**（原来每轮重排都把它推后 6 小时，等于从没按时跑过）。取证补了两行：`MainActivity.onCreate` 在 `super.onCreate` **之前**写「系统下一跳 / 清单最早」，以及 `getHistoricalProcessExitReasons` 的退出原因。闹钟页顶部新增「下一次响铃」（看 `overrides`）；「查看日志」改成整页（按天归档保留 7 天、搜索、一键导出诊断包）。
+  **⑤ 权限按品牌入手（v0.13.15 / 0.13.22）**：三星「休眠应用」、一加 / OPPO「自启动 / 后台运行」两行，解析不到就不显示。
+  **⑥ 节假日自动更新（v0.13.12）**：`holidays.json`（仓库根 + 站点根，`schema 1`）双通道拉取，校验从严、整份通过才认、按年整年替换；「关于」页有手动刷新。
+  **⑦ 触觉（v0.13.7 ~ 0.13.10）**：三档语义改走原生通道与设备自己的预定义效果（根因：Flutter 的 `selectionClick` 落到 `CLOCK_TICK`，小米 HAL 回退成 70ms 长震）；跨品牌按 API 等级逐条校准；`catch (Exception)` 全部改 `Throwable`，修掉 HarmonyOS 3.0（API 29）冷启动闪退。
+  **⑧ 界面（v0.13.23 / 0.13.24 / 0.13.25 / 0.13.26 / 0.13.27）**：日期弹层点年月标题跳月、`glass_step_button` 统一箭头取色、翻月定高按六周；`glass_sheet_panel` 把手统一 11 个底部弹层；两档 `iconTheme` 补 `color`，全库裸图标不再黑压黑；滑块抓取偏移按**按下点**算（跟手），升程只看「按住」；「版本更新」弹窗首屏三版 + 「展开更早的」胶囊（缓解老机型字形图集问题，**不是根治**，上游 `flutter#190519` 仍 open）。
+  **⑨ 交付物**：README 文案逐条核（schemaVersion 15 → 18、日志/诊断包、三星 / 一加 OPPO 权限行、触觉口径）+ `docs/images/` 的 hero / shot-* 重跑（新增 `shot-stats.png`，promo 屏单加 `11_stats`）；`site/index.html` 更新日志 prepend v0.14.0 正式版；`PRODUCT_SPEC.md` 抬头与 §2 / §4；`docs/coolapk-post.md` 升 v0.14.0（新增统计 / 备份两节 + 图序 2.5）；`docs/v0.14.0-update-post.md`；帮助页补「导出出勤表」并**改正「换手机不支持」这条已过时的说法**（备份功能 v0.13.4 就有了）；GitHub 仓库描述与 topics 待发版时一并刷。
+  **⑩ 归纳版写成 9 条、不是逐版罗列**：v0.13.27 刚把更新弹窗首屏压到三版（单次字形量 ~2500 → ~800），正式版条目如果按二十七版全写，首屏又会顶回去 —— 所以这一条刻意控制在 9 条、约 900 字，细节留在 `v0.13.md` 与本文件。
+  **数字**：单测 **1429**（沿用 v0.13.27 的基线，本版只改文案与用例断言，未增减用例）；`flutter analyze` 0 issue；视觉工装 1623 条全绿、写出 430 张图；版本 `0.13.27+214` → **`0.14.0+215`**。
